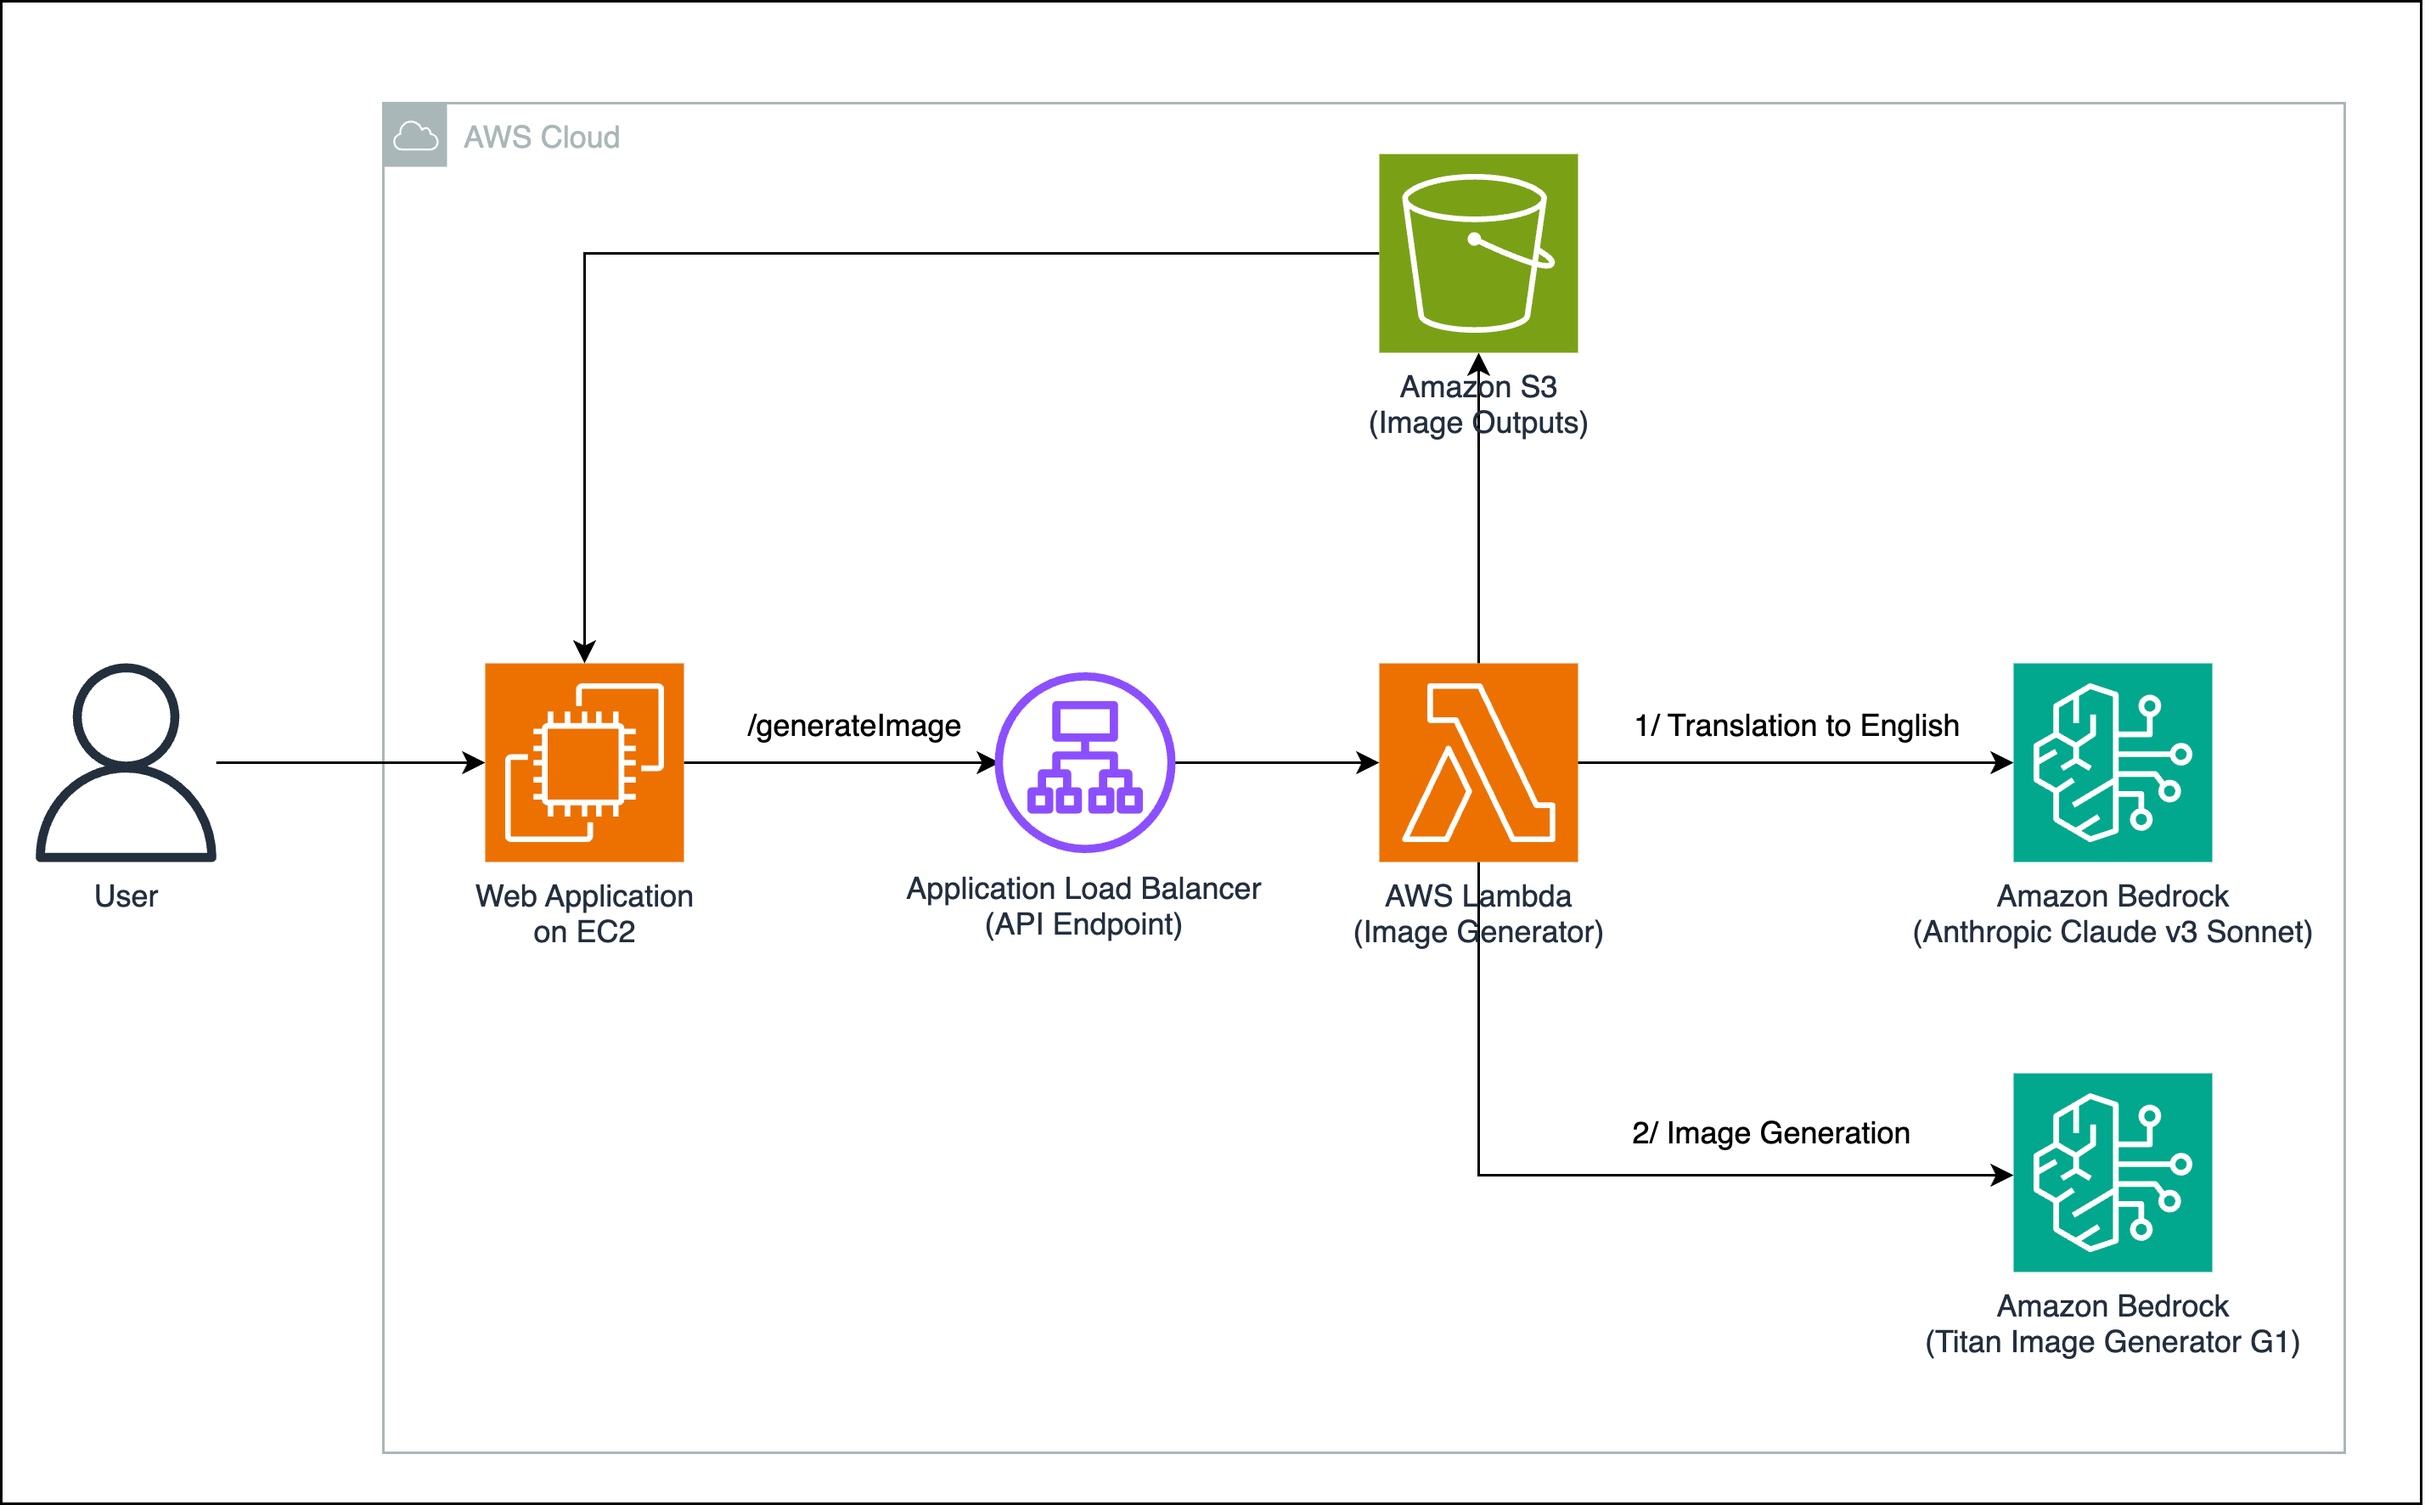
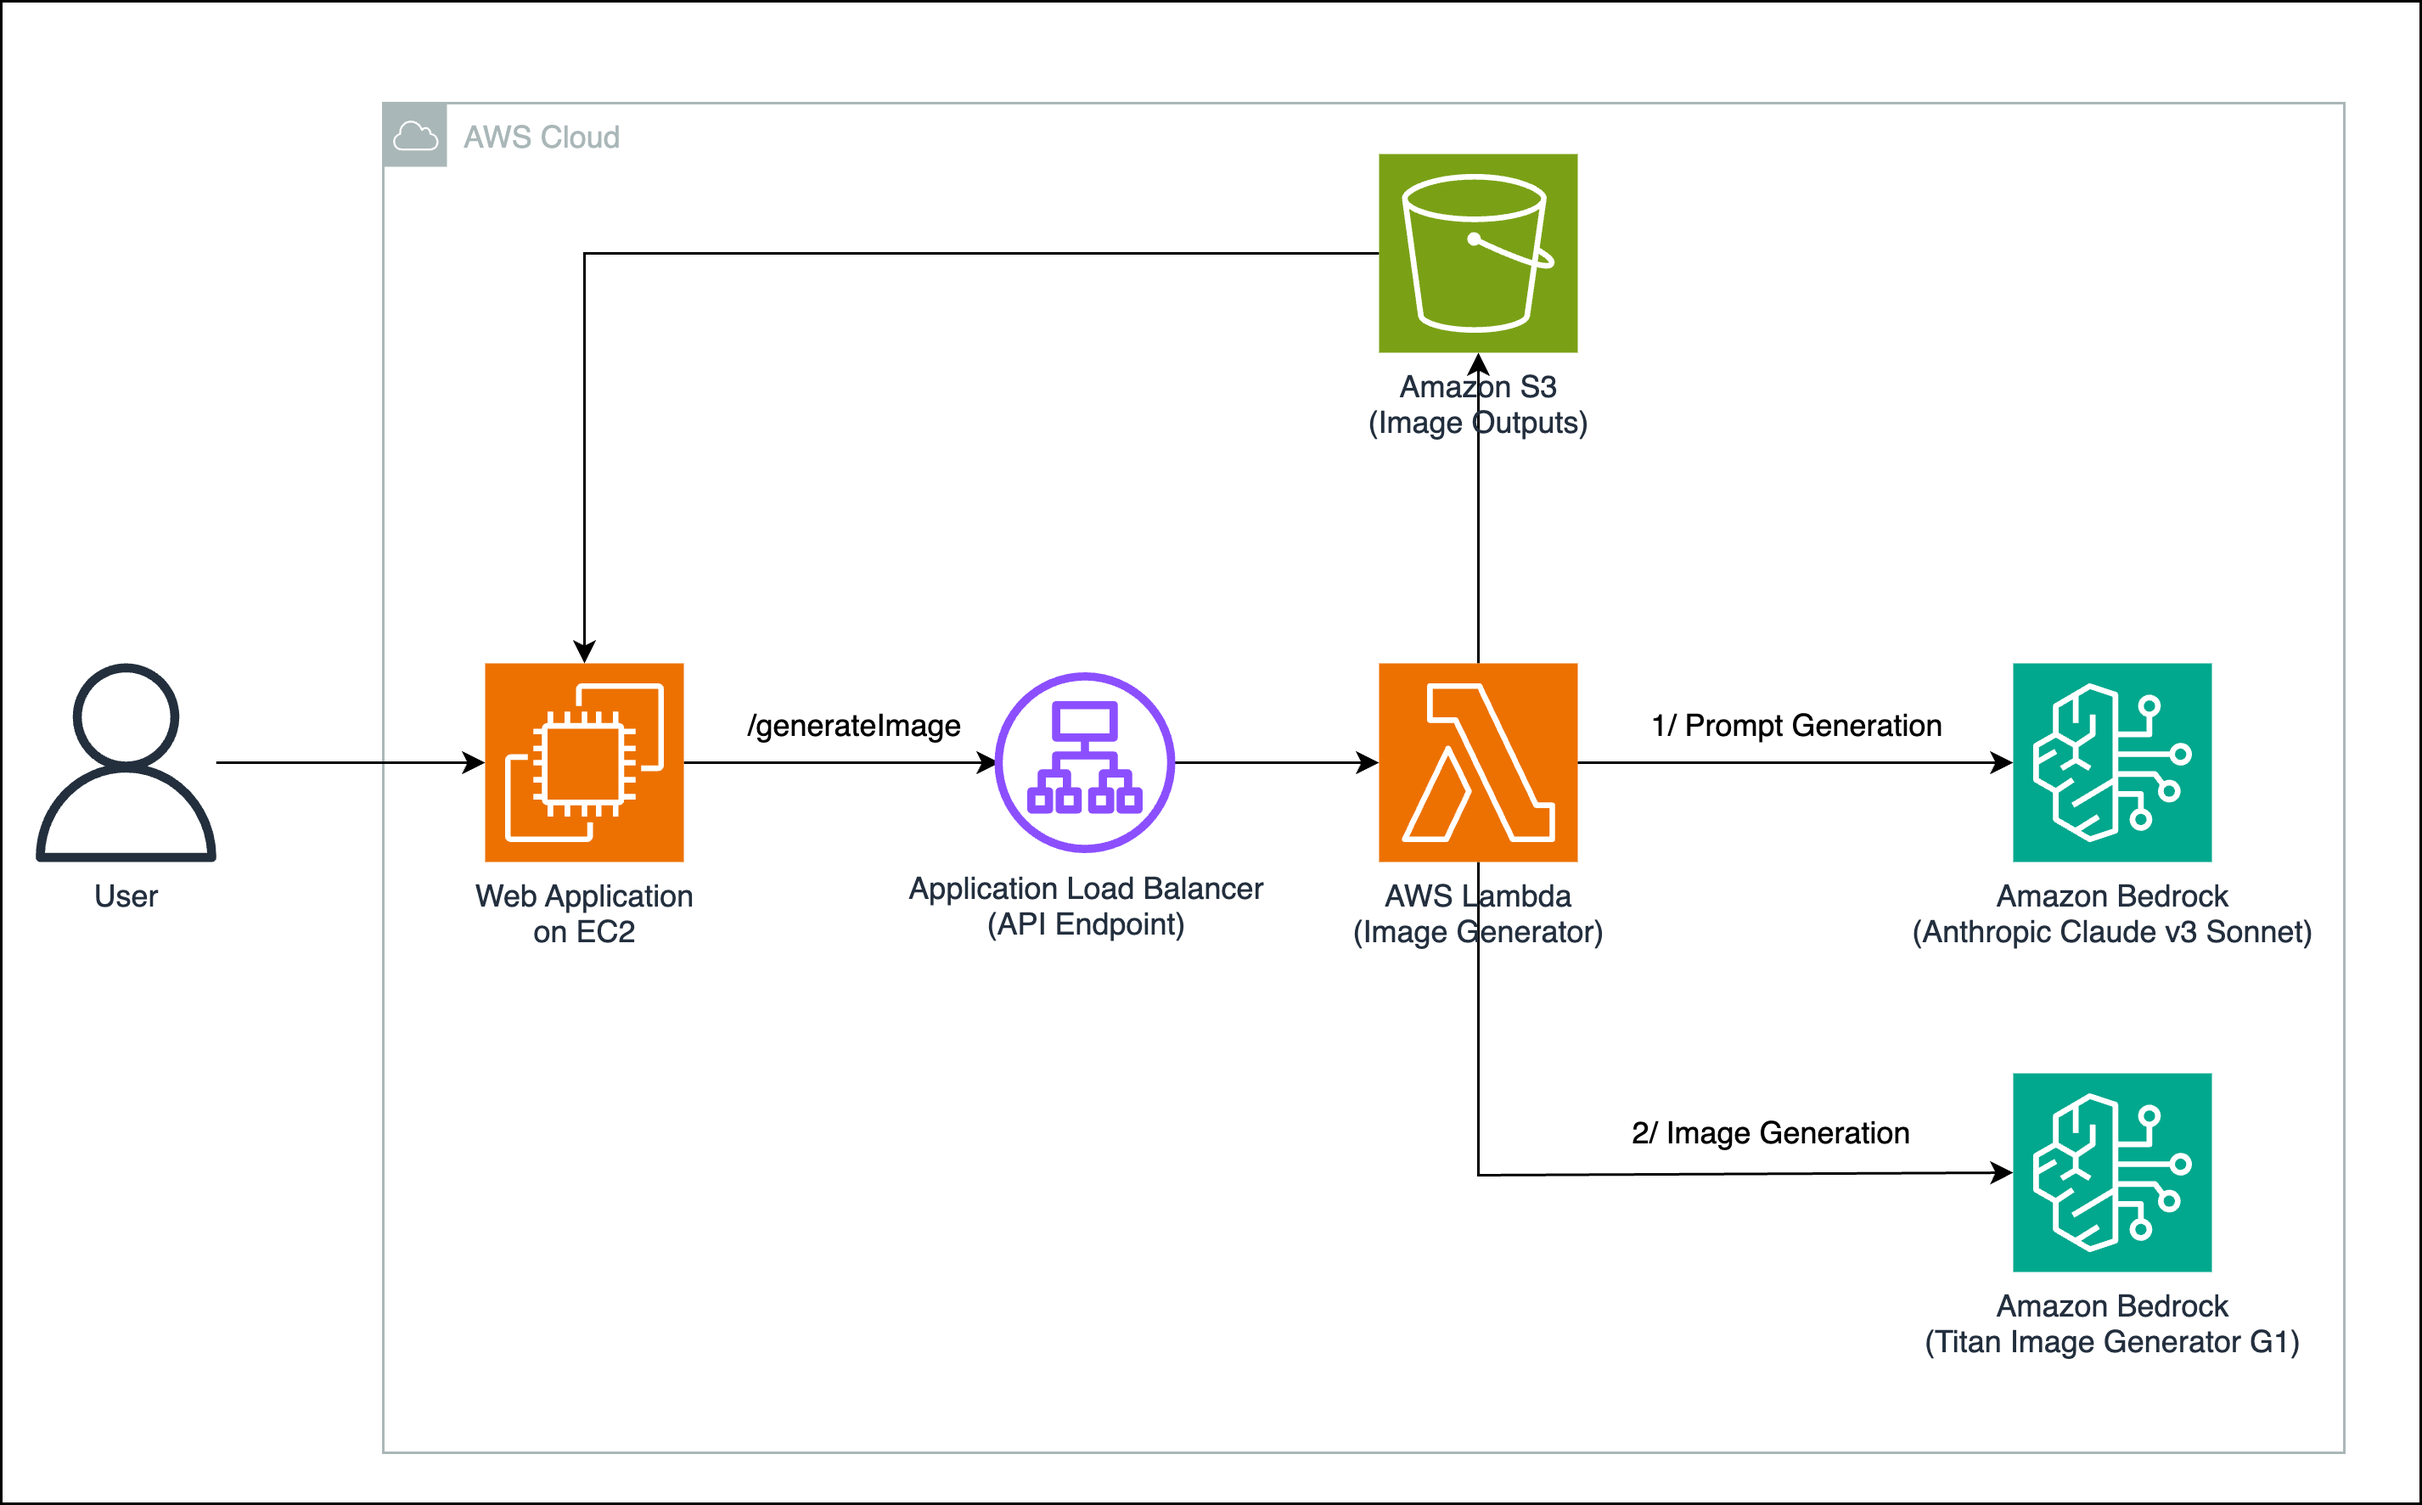
update architecture page with a short explanation and updated arhcitecture diagram

diff --git a/frontend/pages/architecture.py b/frontend/pages/architecture.py
@@ -2,4 +2,11 @@ import streamlit as st
 
 def architecture():
     st.title("AWS Architecture - TIG Ad Image Studio")
+    st.markdown(
+        """
+        이 데모는 Amazon Bedrock의 Anthropic Claude Sonnet v3와 Amazon Titan Image Generator (TIG)를 사용합니다. 
+        * Claude Sonnet v3는 다양한 User Input 기반으로 이미지 생성 프롬프트를 작성해 줍니다.
+        * Amazon TIG는 생성된 프롬프트 기반으로 이미지 생성을 합니다.
+        """
+    )
     st.image("images/Demo-Architecture.png", use_column_width="auto", caption="AWS Architecture", width=8)

diff --git a/README.md b/README.md
@@ -4,6 +4,8 @@
 
 Amazon Titan Image Generator(TIG)를 사용하여 실제 상품으로 맞춤 광고 이미지 만들는 작업을 할 수 있습니다.
 
+이 프로젝트를 AWS 환경에 배포 후 실제 제품의 사진을 사용해 이미지를 광고 이미지를 생성할 수 있습니다.
+
 ## Architecture
 ![Demo Architecture](frontend/images/Demo-Architecture.png)
 
